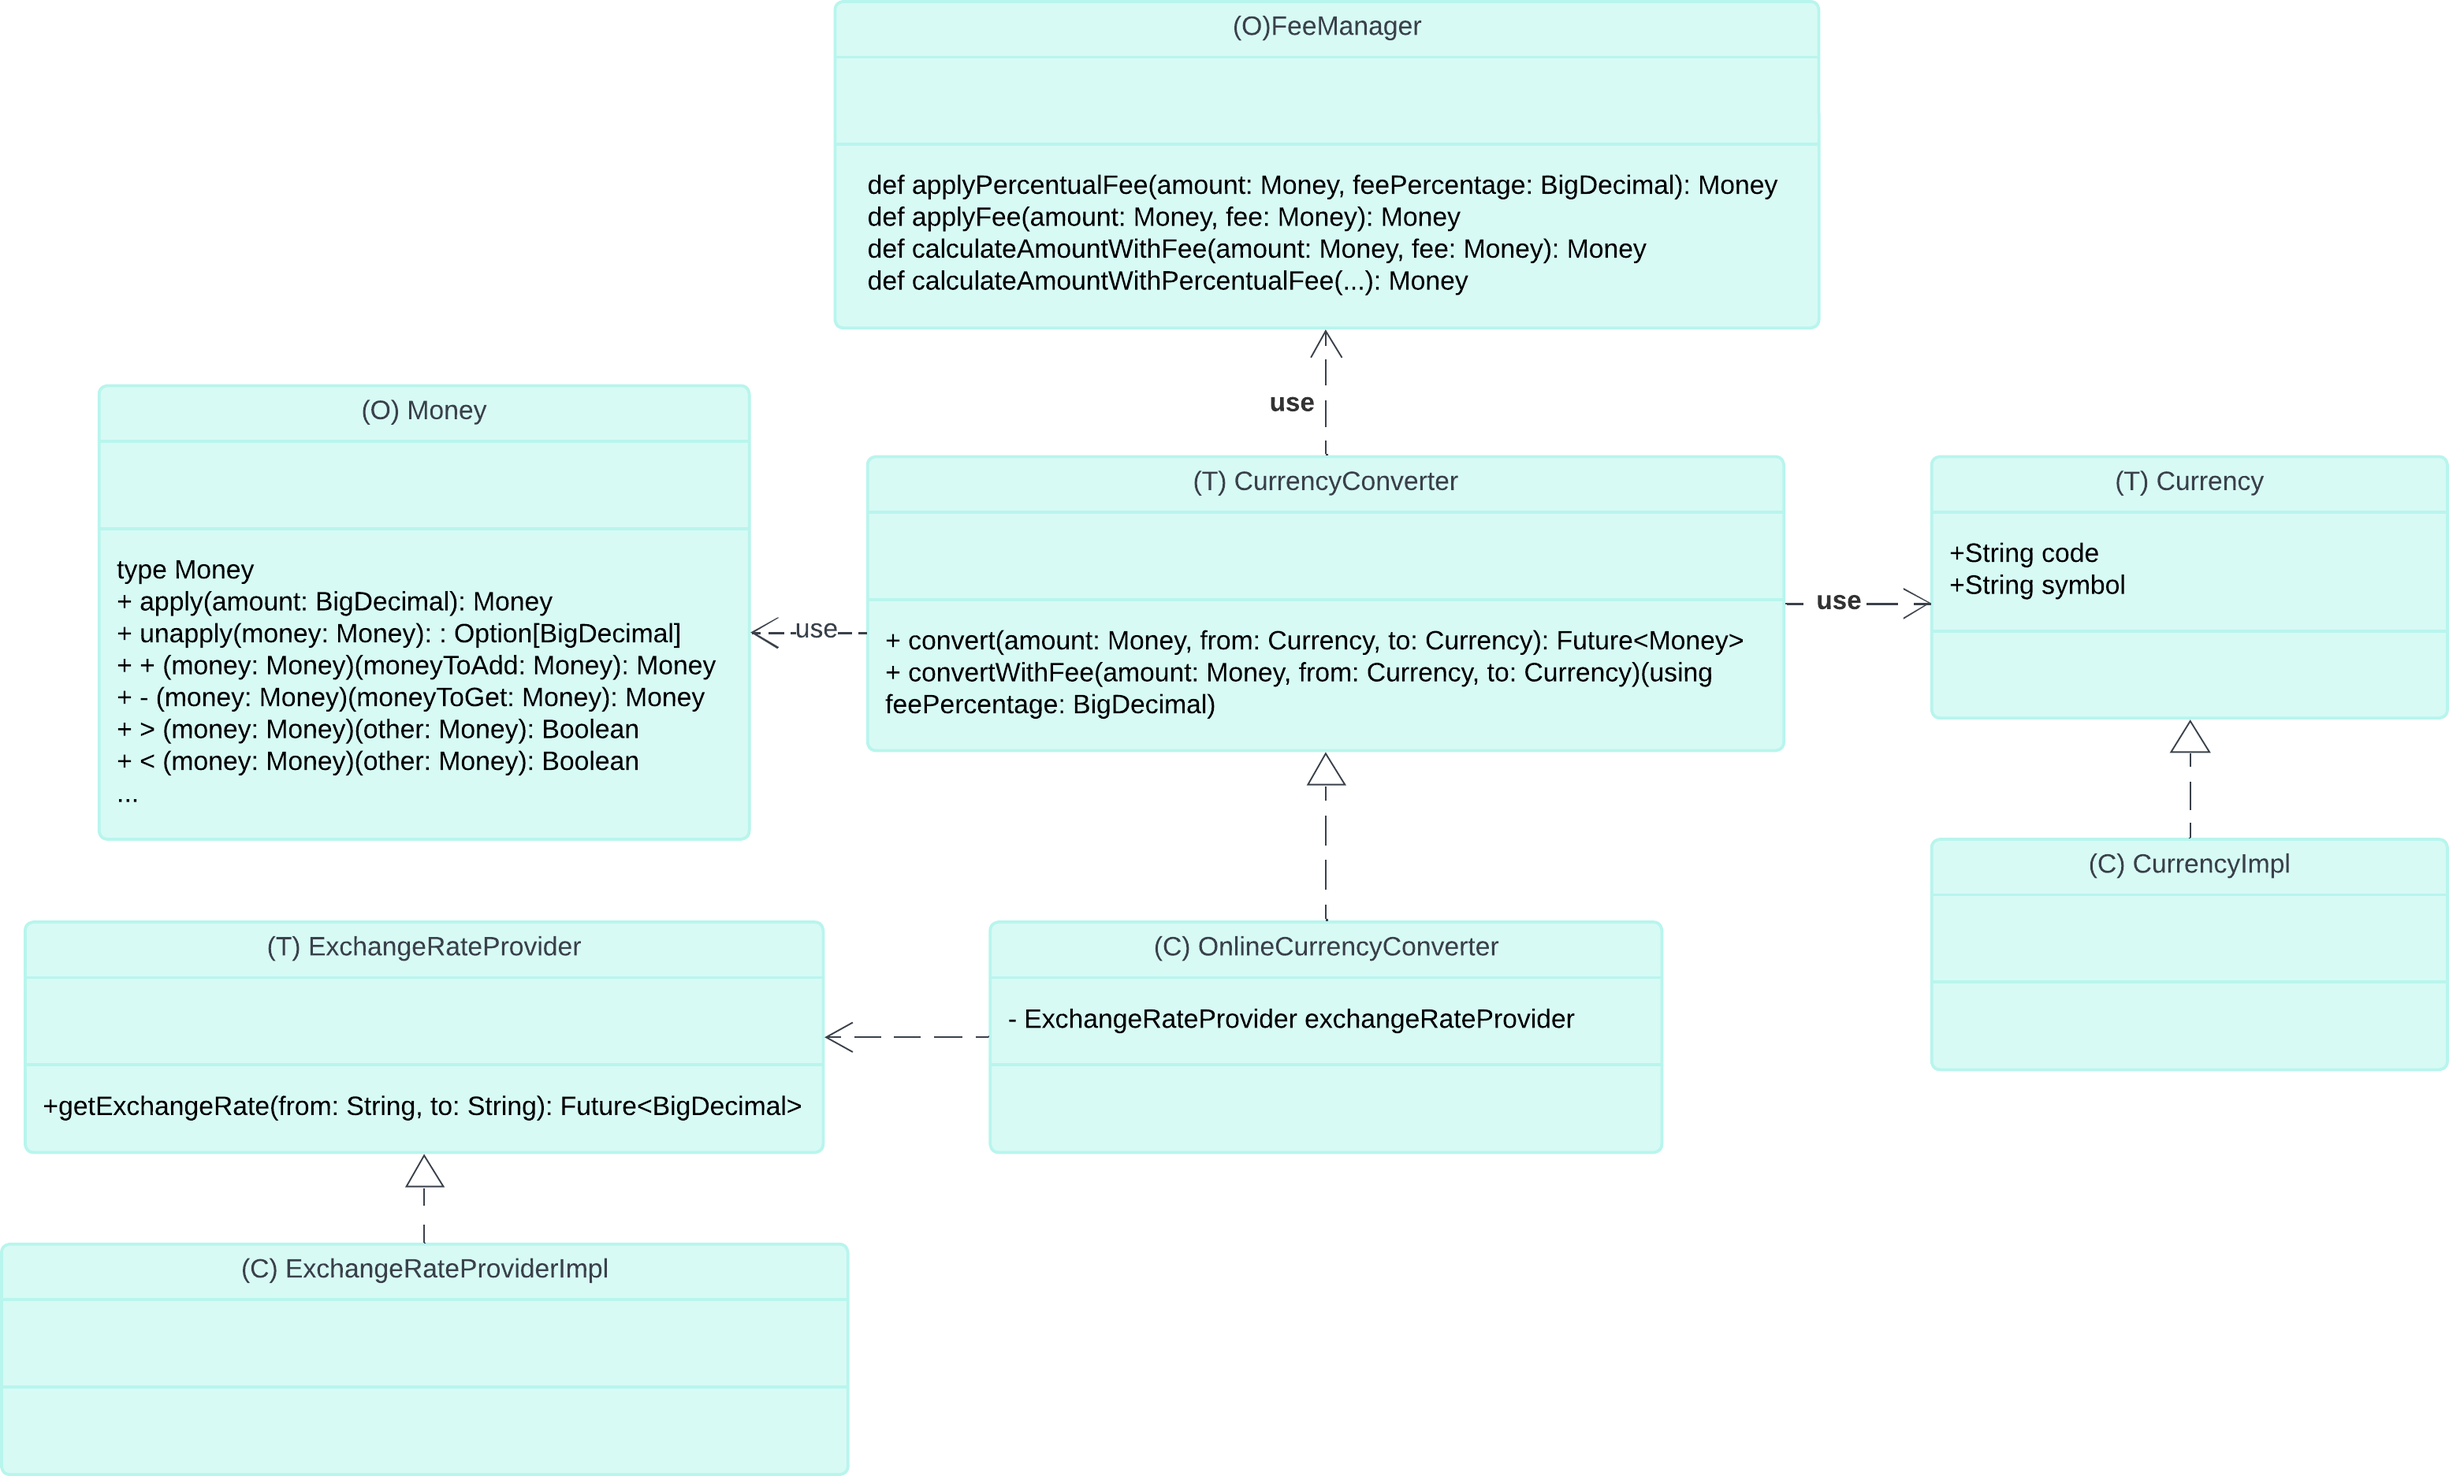
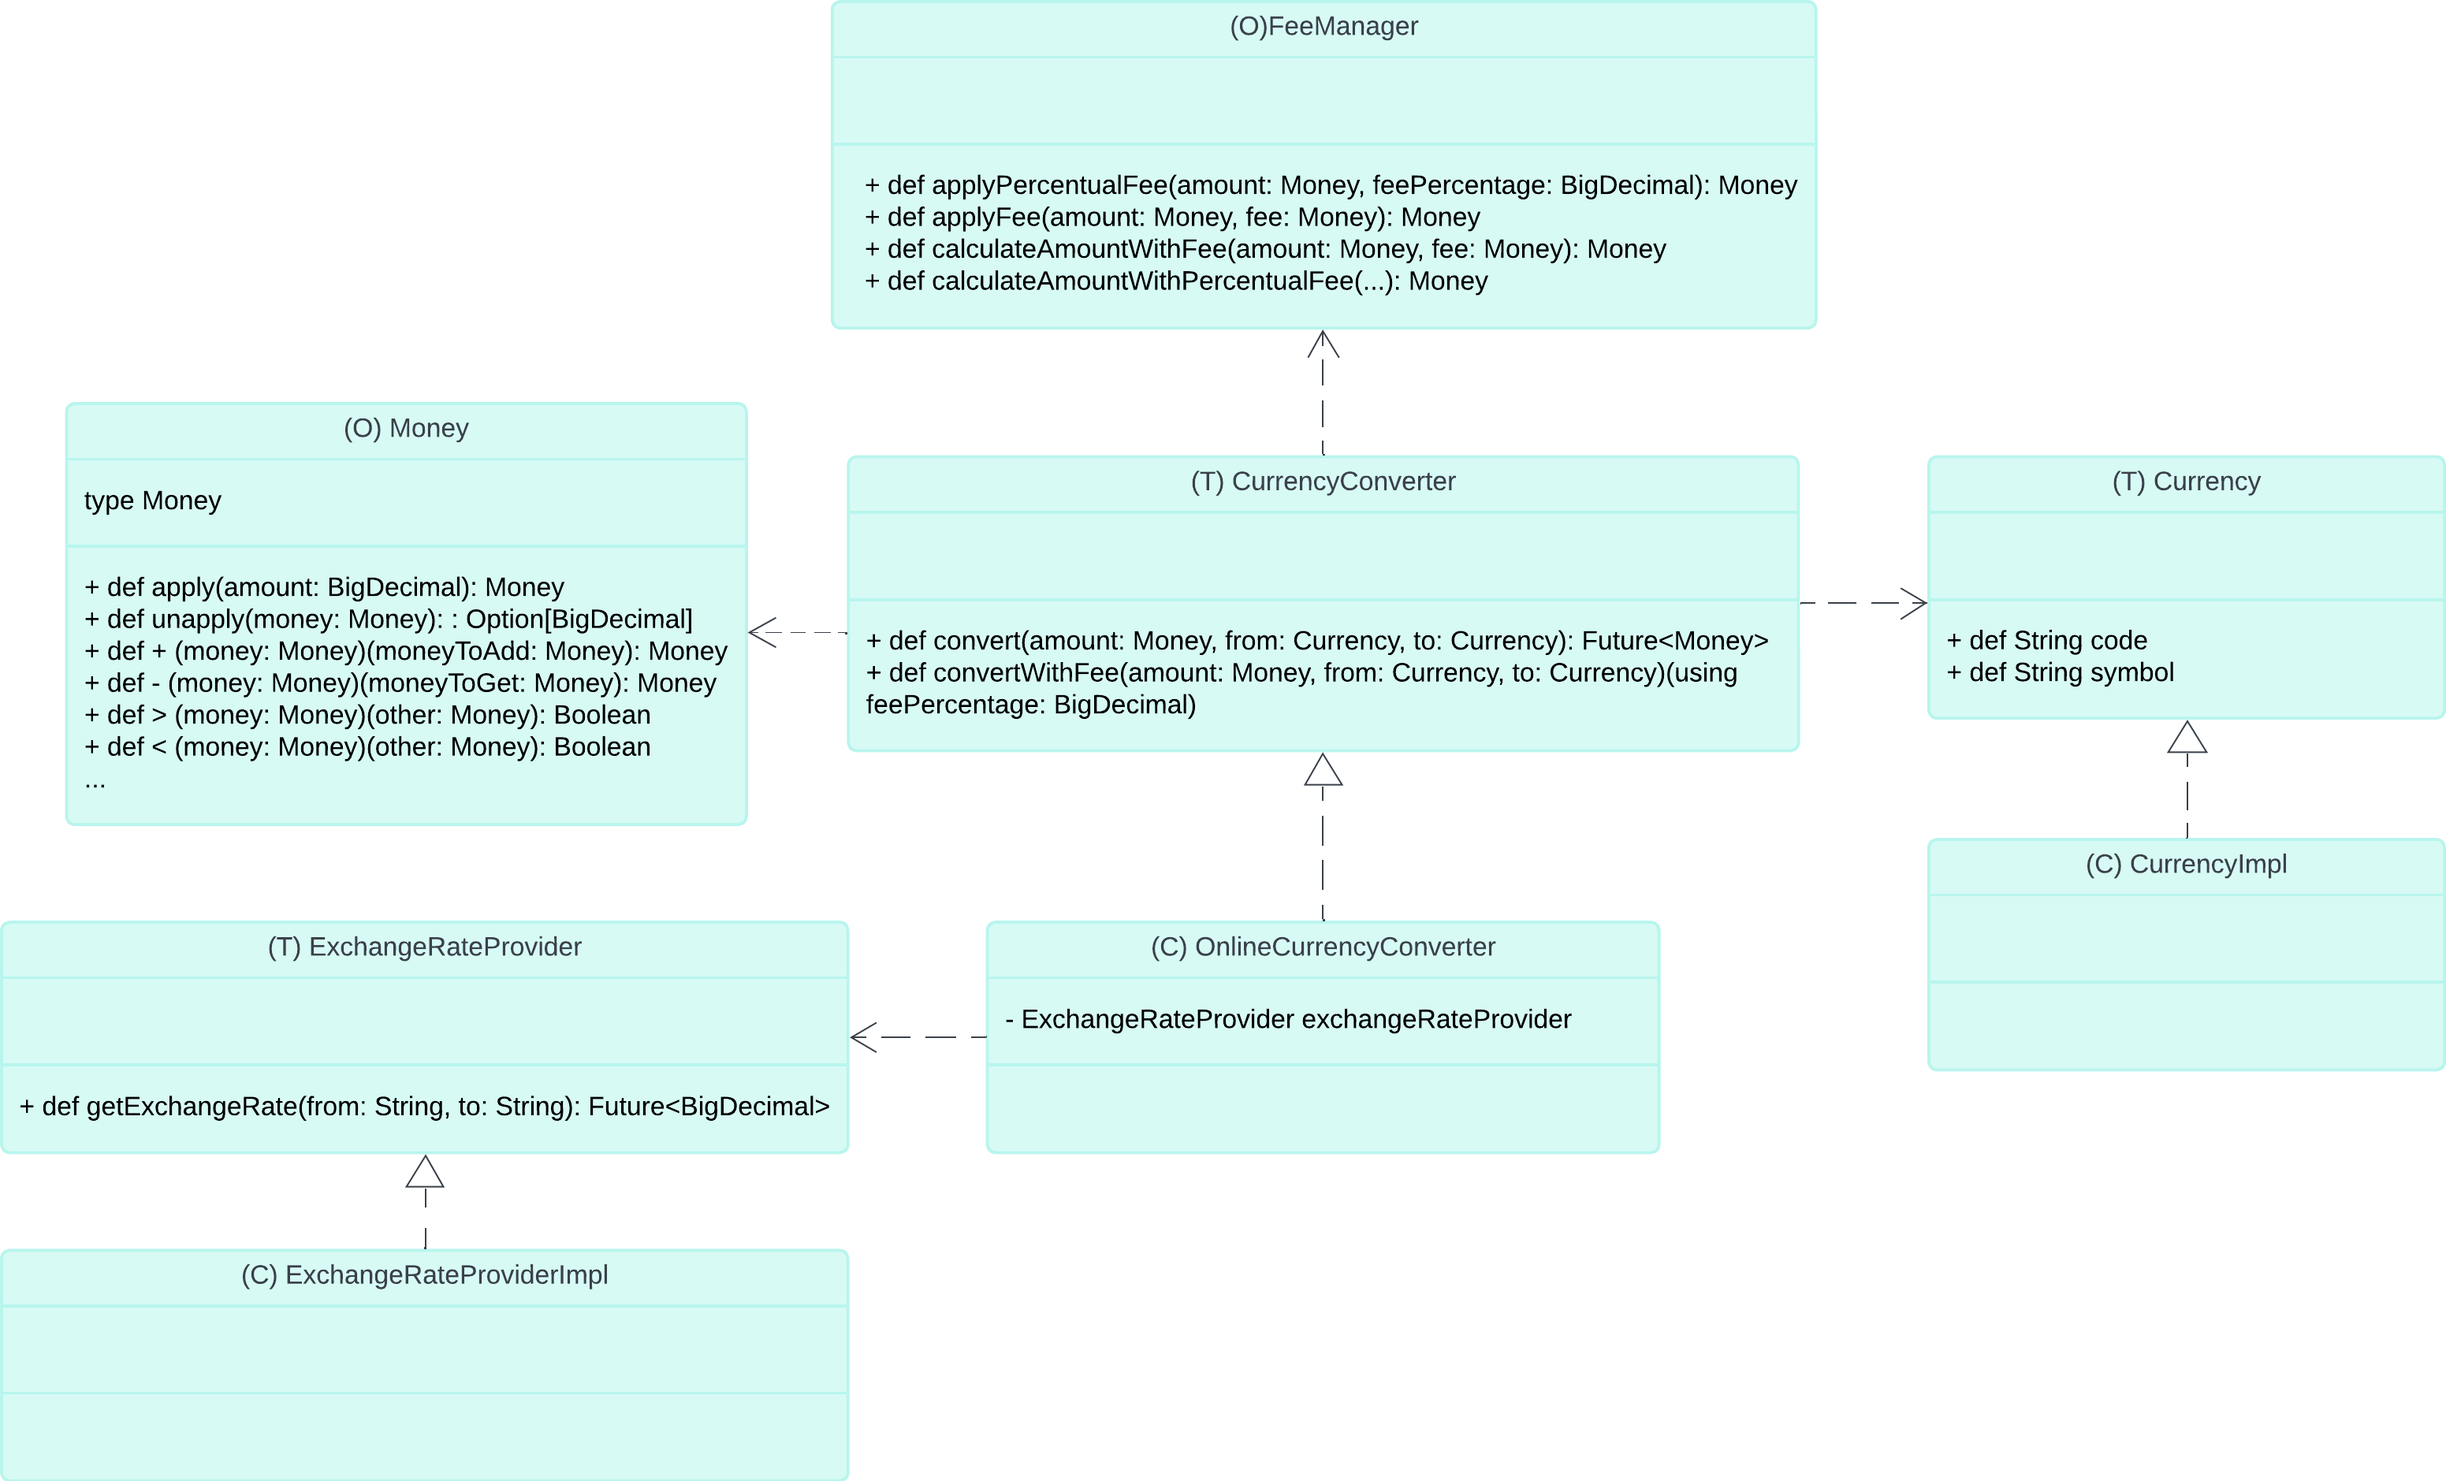
fix report

diff --git a/docs/6-implementation/andrea/andrea.md b/docs/6-implementation/andrea/andrea.md
@@ -14,7 +14,7 @@ Riporto lo schema UML per la factory della persona.
 Invece è stato utilizzato un template method per quanto concerne la gestione delle diverse tipologie di dipendenti. In particolare è stata creata prima l'interfaccia `StaffPosition` la quale è un mixin, il quale contiene implementati i metodi comuni ed estende Person. A questo punto le classi `Employee` e `Manager` estendono `StaffPosition`.
 Riporto lo schema UML per il template method della gestione dei dipendenti. Si noti che (T) è un trait, (E) è un'enumerazione, (C) è una classe, (T, C) vuol dire che è stato creato il trait e la classe relativa utilizzando il pattern factory come descritto sopra per la classe `Persona`.
 
-![UML Persona](img/template.png)
+![UML Dipendenti](img/template.png)
 
 ### Person
 
@@ -132,20 +132,31 @@ Il trait `StaffPosition` rappresenta una posizione occupata da un membro dello s
 
 In questa parte, descriveremo l'implementazione dei file all'interno del package `scalabank.currency`. Ho utilizzato i principi KISS (Keep It Simple, Stupid) e DRY (Don't Repeat Yourself) per mantenere il codice semplice, leggibile e riutilizzabile. Inoltre, sono stati applicati vari pattern di progettazione per migliorare la struttura e la manutenibilità del codice.
 
-![UML Persona](img/money.png)
+![UML Money](img/money.png)
 
 ### Currency
 
 Il trait `Currency` rappresenta una valuta con un codice e un simbolo.
 
-#### Meccanismi utilizzati:
+### FeeManager
 
-- **Encapsulation:** Uso di metodi per accedere agli attributi `code` e `symbol`.
-- **Factory Method:** Metodo `apply` per creare istanze di `Currency` con la case class privata `CurrencyImpl`.
+L'oggetto `FeeManager` nel package è un singleton che fornisce metodi per gestire le commissioni, `fee`, su importi di denaro. Utilizza il tipo `Money` definito in MoneyADT.Money.
 
 ### CurrencyConverter
 
 Il trait `CurrencyConverter` rappresenta un convertitore di valute con metodi per la conversione e l'applicazione di commissioni. Per la realizzazione, ho utilizzato un'API esterna interrogando il server di YAHOO, al fine di avere ogni volta i dati aggiornati delle valute.
+
+```scala 3
+private case class OnlineCurrencyConverter() extends CurrencyConverter:
+  private val exchangeRateProvider = ExchangeRateProvider()
+
+  override def convert(amount: Money, from: Currency, to: Currency): Money =
+    Await.result(exchangeRateProvider.getExchangeRate(from.code, to.code).map(_ => amount), 5.second)
+
+  override def convertWithFee(amount: Money, from: Currency, to: Currency)(using feePercentage: BigDecimal): Money =
+    val convertedAmount = convert(amount, from, to)
+    FeeManager.applyPercentualFee(convertedAmount, feePercentage)
+```
 
 #### Meccanismi utilizzati:
 
@@ -156,11 +167,23 @@ Il trait `CurrencyConverter` rappresenta un convertitore di valute con metodi pe
 
 Il trait `ExchangeRateProvider` rappresenta un provider di tassi di cambio. Ho dovuto appoggiarmi a una classe diversa perché la risposta del server di YAHOO richiede la scomposizione della risposta attraverso una libreria apposita per formati JSON. Per questo motivo è nata questa classe, in modo da rispettare i principi DRY e SRP. Essa scompone la richiesta e restituisce il valore richiesto.
 
+```scala 3
+private case class ExchangeRateProviderImpl() extends ExchangeRateProvider:
+    private val backend = HttpURLConnectionBackend()
+
+    override def getExchangeRate(from: String, to: String): Future[BigDecimal] =
+      val url = s"https://query1.finance.yahoo.com/v8/finance/chart/${from}${to}=X"
+      for
+        response <- fetchExchangeRate(url)
+        rate <- parseExchangeRate(response)
+      yield rate
+```
+
 #### Meccanismi utilizzati:
 
 - **Asynchronous Programming:** Uso di `Future` per operazioni asincrone.
 - **Encapsulation:** Metodi privati per ottenere e parsare i tassi di cambio.
-- **For-yield:** Al fine di scomporre il JSON arrivato.
+- **For yield:** Al fine di scomporre il JSON arrivato.
 
 ### MoneyADT
 
@@ -217,12 +240,12 @@ override def compare(x: Money, y: Money): Int = x.compare(y)
 - **Extension Methods:** Metodi di estensione per operazioni aritmetiche e formattazione, al fine di limitare le operazioni possibili.
 
 ### Principi KISS e DRY
-
+In questa seconda parte ho cercato di rispettare i seguenti principi:
 - **KISS (Keep It Simple, Stupid):** Ho mantenuto il codice semplice e leggibile, evitando complessità inutili. Ad esempio, l'uso di `Future` per operazioni asincrone semplifica la gestione delle chiamate di rete.
-- **DRY (Don't Repeat Yourself):** Ho evitato la duplicazione del codice utilizzando metodi di estensione e case class private per implementazioni specifiche. Ad esempio, i metodi di estensione per `Money` prevengono la duplicazione di logica comune.
+- **DRY (Don't Repeat Yourself):** Ho evitato la duplicazione del codice utilizzando metodi di estensione e case class private per implementazioni specifiche.
 
 ### Pattern di Progettazione
-
+In questa seconda parte si sono utilizzati i seguenti pattern di progettazione:
 - **Factory Method:** Usato per creare istanze di `Currency`, `CurrencyConverter` e `ExchangeRateProvider`.
 - **Type Opacity:** Usato per il tipo `Money` per garantire la sicurezza dei tipi.
 - **Asynchronous Programming:** Uso di `Future` per operazioni di rete non bloccanti.
